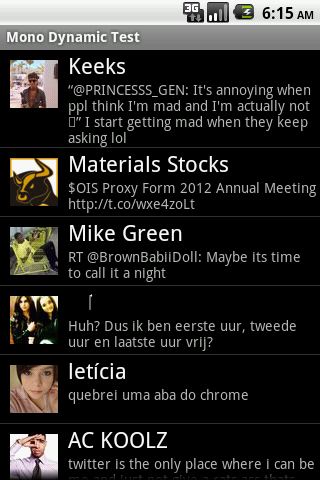
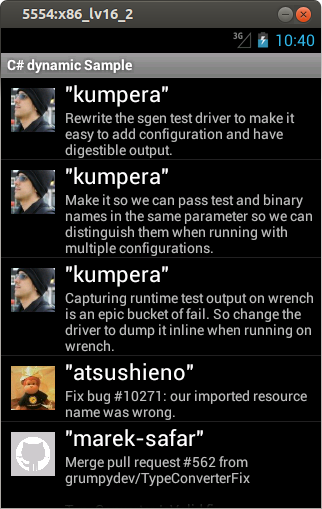
[DynamicTest] this sample should make more sense.

diff --git a/DynamicTest/DynamicTest/MainActivity.cs b/DynamicTest/DynamicTest/MainActivity.cs
@@ -24,7 +24,7 @@ using Path = System.IO.Path;
 
 namespace DynamicTest
 {
-	[Activity (Label = "Mono Dynamic Test", MainLauncher = true)]
+	[Activity (Label = "C# dynamic Sample", MainLauncher = true)]
 	public class MainActivity : ListActivity
 	{
 		protected override void OnCreate (Bundle bundle)
@@ -35,9 +35,12 @@ namespace DynamicTest
 			if (!Directory.Exists (baseDir))
 				Directory.CreateDirectory (baseDir);
 
+			var from = new string [] {"Text", "Name", "Icon"};
+			var to = new int [] { Resource.Id.textMessage, Resource.Id.textName, Resource.Id.iconView};			
 			var data = new List<IDictionary<string,object>> ();
+			data.Add (new JavaDictionary<string,object> () { {"Text", "loading"}, {"Name", ""} });
 			var urls = new Dictionary<Uri,List<string>> ();
-			var getUrl = new Uri ("https://api.github.com/users/mono/repos");
+			var getUrl = new Uri ("https://api.github.com/repos/mono/mono/commits");
 #if REACTIVE
 			var hr = new HttpWebRequest (getUrl);
 			var req = Observable.FromAsyncPattern<WebResponse> (hr.BeginGetResponse, hr.EndGetResponse);
@@ -47,6 +50,7 @@ namespace DynamicTest
 #else
 			var wc = new WebClient ();
 			wc.DownloadStringCompleted += (sender, e) => {
+				data.Clear ();
 				var v = e.Result;
 				var json = (IEnumerable<JsonValue>) JsonValue.Parse (v);
 #endif
@@ -55,13 +59,13 @@ namespace DynamicTest
 #else
 				foreach (var item in json.Select (j => j.AsDynamic ())) {
 #endif
-					var uri = new Uri ((string) item.owner.avatar_url);
-					var file = Path.Combine (baseDir, (string) item.id + new FileInfo (uri.LocalPath).Extension);
+					var uri = new Uri ((string) item.author.avatar_url);
+					var file = Path.Combine (baseDir, (string) item.author.id + new FileInfo (uri.LocalPath).Extension);
 					if (!urls.ContainsKey (uri))
 						urls.Add (uri, new List<string> () {file});
 					else
 						urls [uri].Add (file);
-					data.Add (new JavaDictionary<string,object> () { {"Text", item.description}, {"Name", item.name}, {"Icon", Path.Combine (baseDir, file) }});
+					data.Add (new JavaDictionary<string,object> () { {"Text", ((string) item.commit.message).Trim ()}, {"Name", item.author.login}, {"Icon", Path.Combine (baseDir, file) }});
 #if REACTIVE
 				});
 #else
@@ -76,9 +80,6 @@ namespace DynamicTest
 						iwc.DownloadDataAsync (p.Key);
 					});
 			
-				var from = new string [] {"Text", "Name", "Icon"};
-				var to = new int [] { Resource.Id.textMessage, Resource.Id.textName, Resource.Id.iconView};
-			
 				this.RunOnUiThread (() => {
 					ListAdapter = new SimpleAdapter (this, data, Resource.Layout.ListItem, from, to);
 				});
@@ -88,8 +89,7 @@ namespace DynamicTest
 			};
 			wc.DownloadStringAsync (getUrl);
 #endif
+			ListAdapter = new SimpleAdapter (this, data, Resource.Layout.ListItem, from, to);
 		}
 	}
 }
-
-
